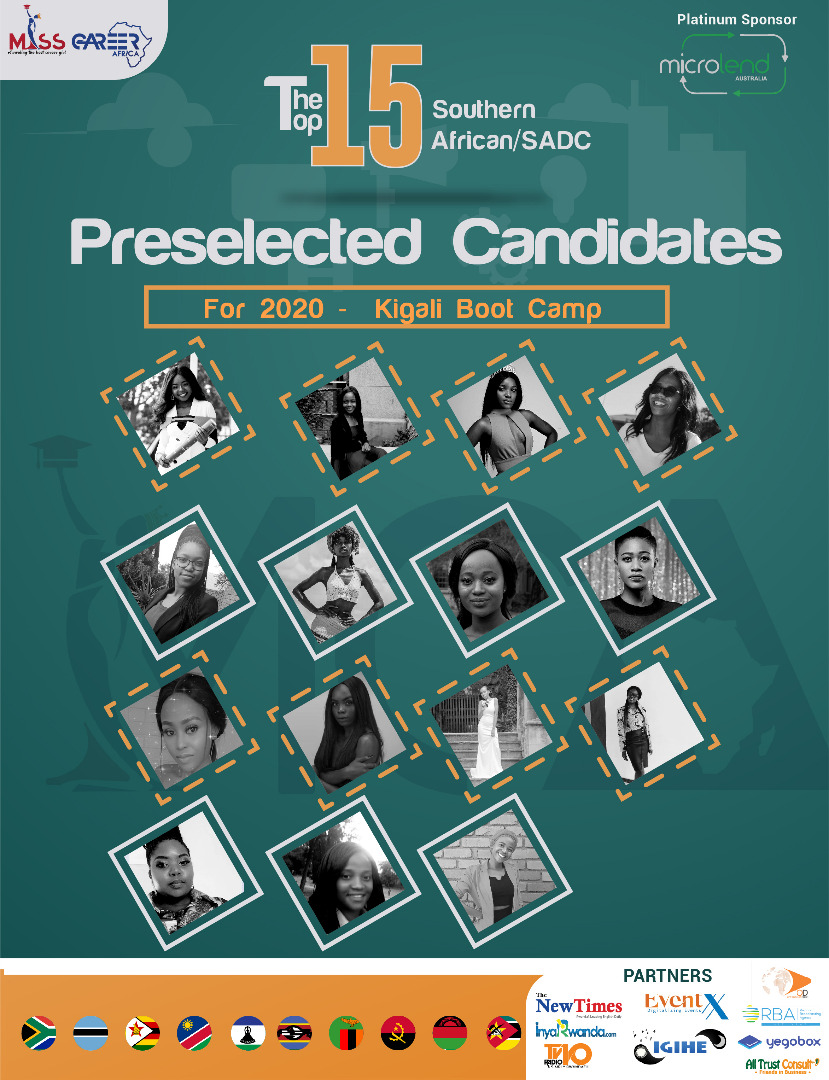
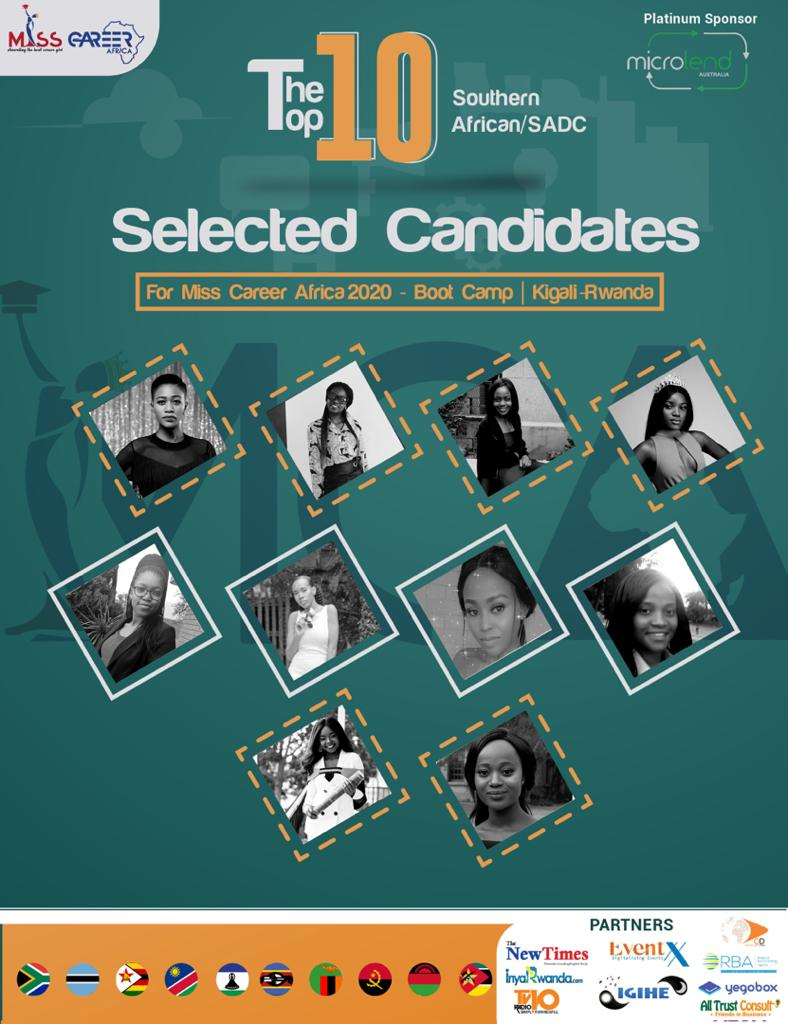
..

diff --git a/public/js/mca.js b/public/js/mca.js
@@ -247,7 +247,7 @@ function loadAllSession(){
                     var candidate='';
                     if(element.is_voting_open){
                         $('.can-voting').show(); 
-                     candidate=element.is_voting_open?' <a href="https://www.theeventx.com/view-event/44" class="btn btn-info"> Get Ticket </a><a href="/selected-candidates" style="color:white!important" class="btn btn-success mr-1 text-white can-voting">SA Region-15 Preselected Candidates</a>':'';
+                     candidate=element.is_voting_open?' <a href="https://www.theeventx.com/view-event/44" class="btn btn-info"> Get Ticket </a><a href="/selected-candidates" style="color:white!important" class="btn btn-success mr-1 text-white can-voting">Top 10 Selected Candidates|SADC Region</a>':'';
                     }else{
                         // $('.can-voting').hide(); 
                         candidate='';

diff --git a/resources/views/shared/header.blade.php b/resources/views/shared/header.blade.php
@@ -56,9 +56,9 @@
 
                     <li><a class="apply" style="color: #556cd6;;" href="candidate-application">APPLY</a></li>
 
-                    <li><a class="can-voting" style="color: #556cd6;;" href="selected-candidates">SA Region-15
-                            Preselected</a></li>
-                    <!-- <li><a class="can-voting" style="color: #556cd6;;" href="selected-candidates">VOTE PRESELECTED CANDIDATES</a></li> -->
+                    <!-- <li><a class="can-voting" style="color: #556cd6;;" href="selected-candidates">SA Region-15
+                            Preselected</a></li> -->
+                    <li><a class="can-voting" style="color: #556cd6;;" href="selected-candidates">Top 10 Selected Candidates|SADC Region</a></li>
 
                     <?php 
                     $opnDonateSessions=\App\Models\DonateSessions::where('can_open_donation_system',1)->count(); 

diff --git a/resources/views/selectedcandidates.blade.php b/resources/views/selectedcandidates.blade.php
@@ -63,9 +63,9 @@
                     <br>
                     <hr>
                     <br>
-                    <div class="row can-voting" id="selected_candidates">
+                    <!-- <div class="row can-voting" id="selected_candidates">
 
-                    </div>
+                    </div> -->
                     <!-- <div class="card border-success mb-3" style="max-width: 100%">
                         <h1 class="text-center"><b>VOTES CLOSED</b></h1>
                         <div class="card-footer bg-transparent border-success">

diff --git a/resources/views/candiate_voters/create.blade.php b/resources/views/candiate_voters/create.blade.php
@@ -57,6 +57,8 @@
 
                 <?php }else{?>
                     <h1 class="text-center text-warning"><b>VOTING CLOSED</b></h1> 
+                    <br>
+                    <br>
                     <?php } ?>
 
                     <div class="col-12 mb-2">
